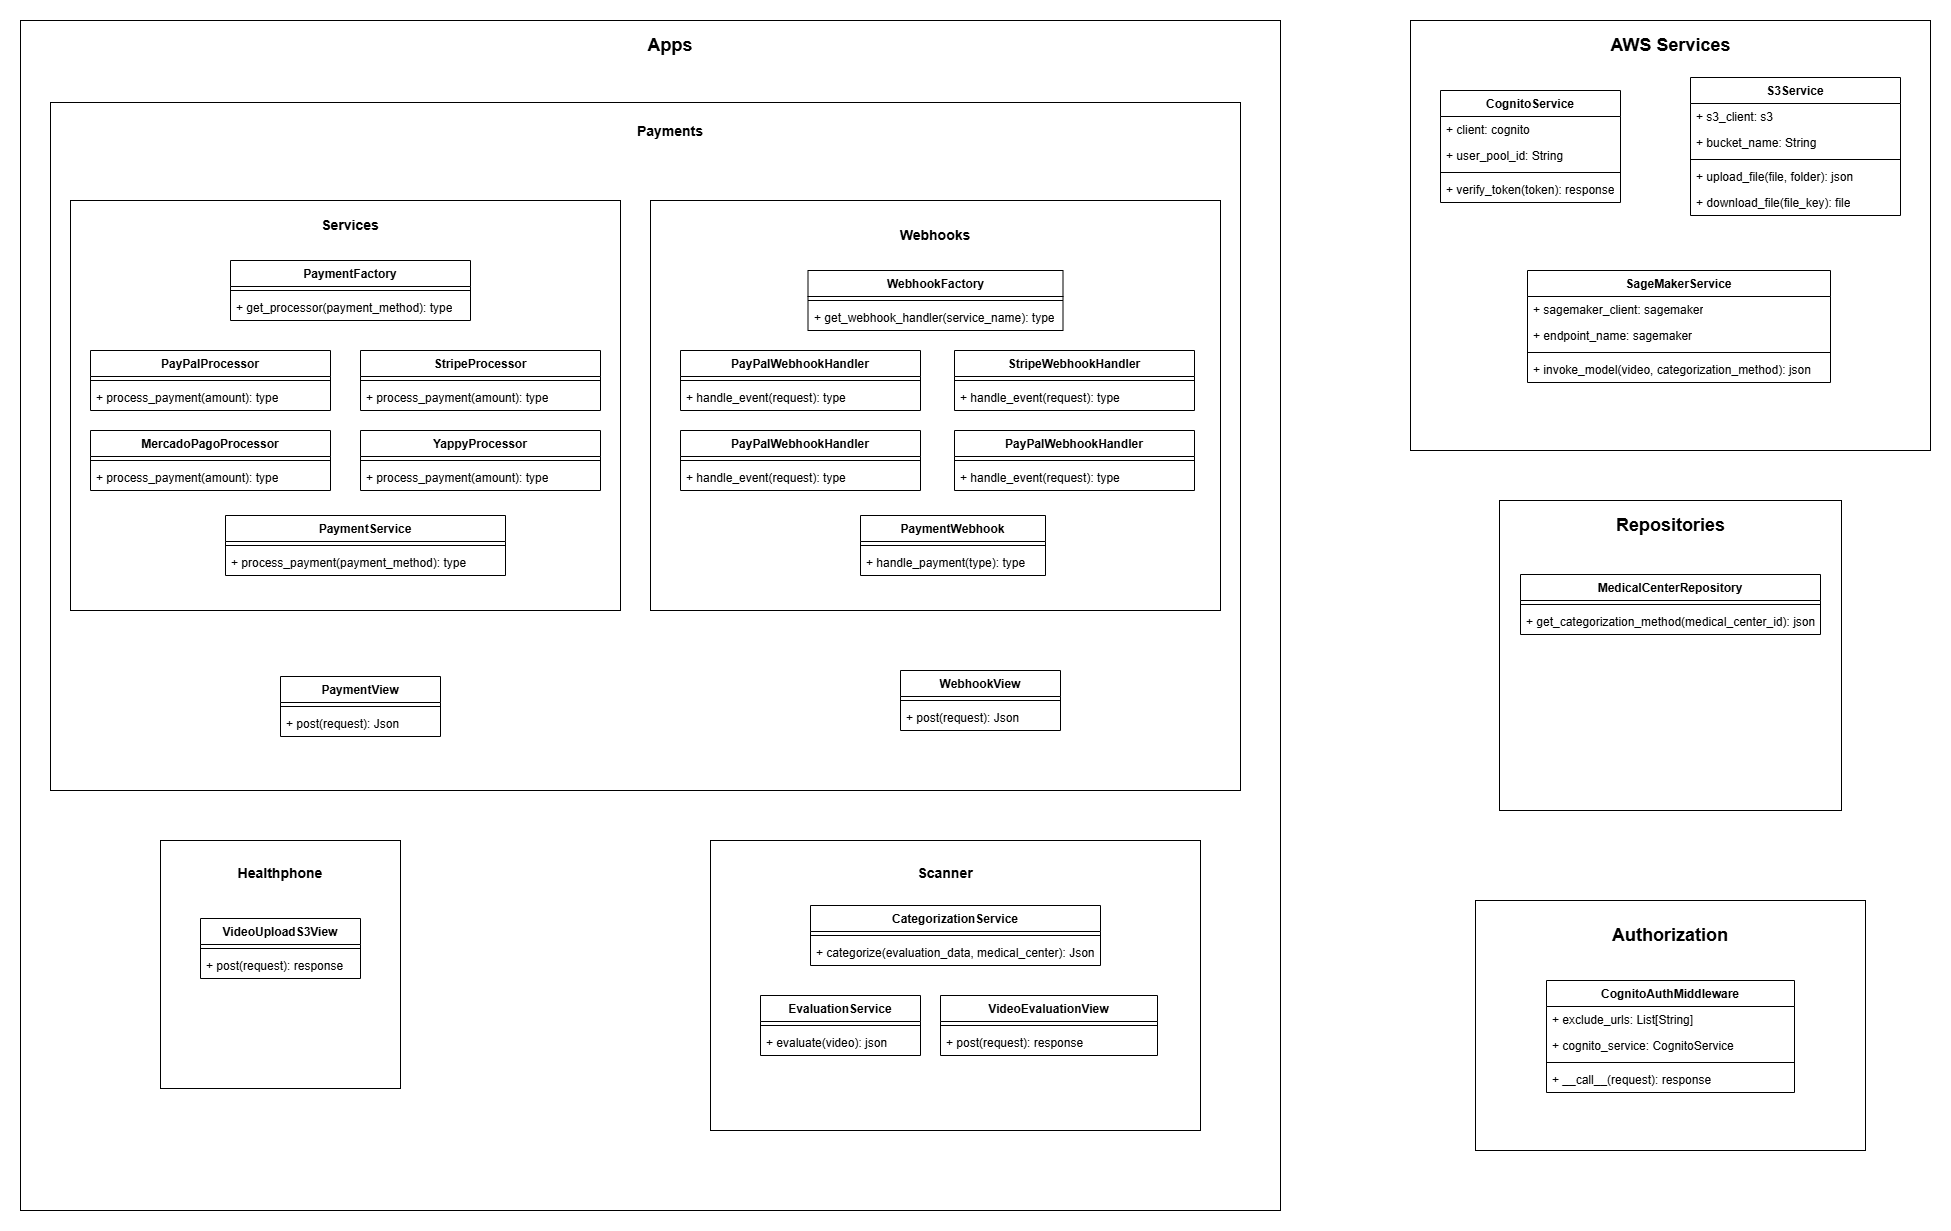
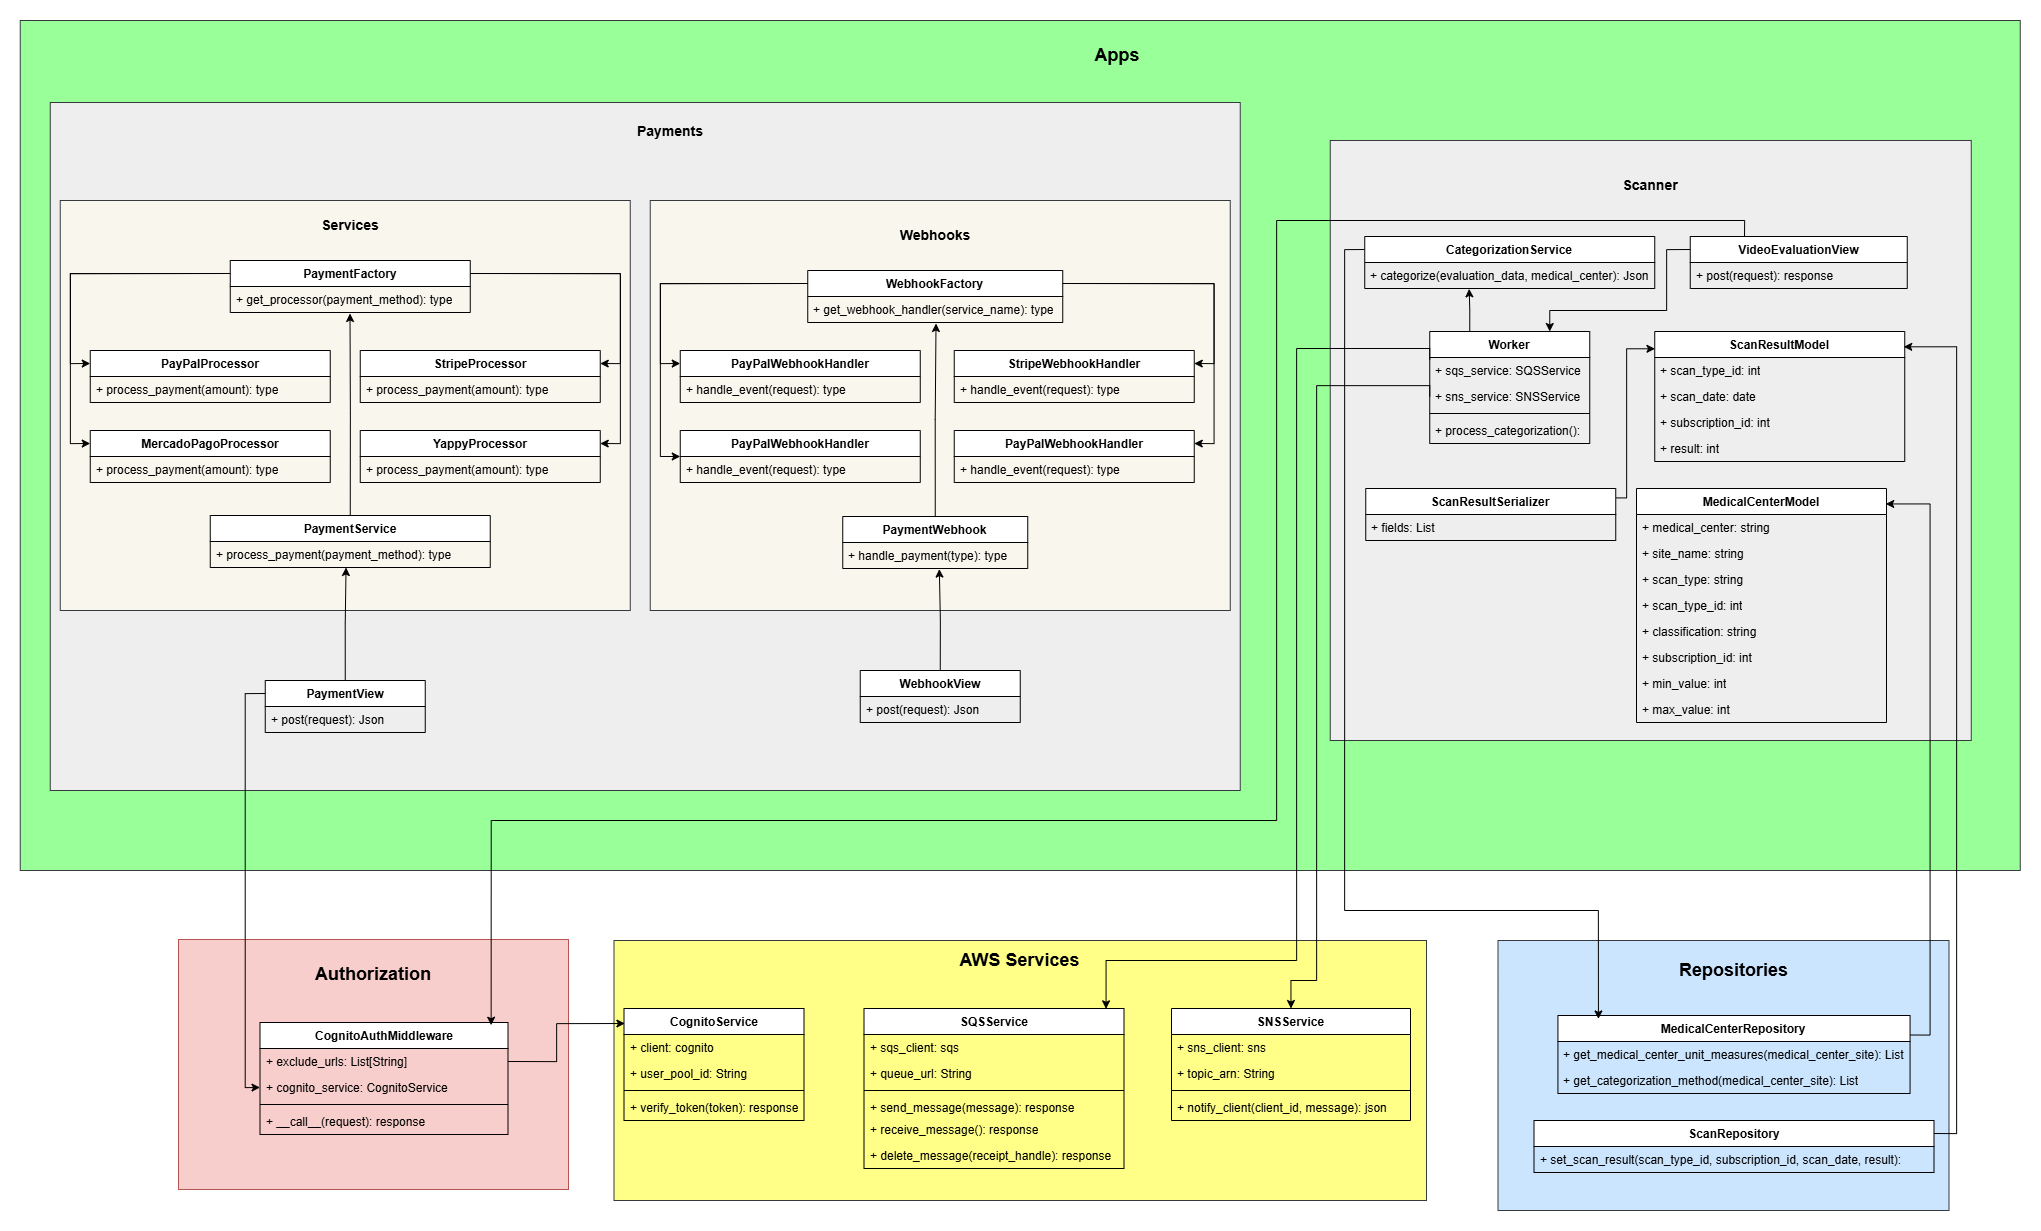
Se modifica la estructura del boilerplate, ahora el view scan recibe el resultado desde sagemajer y se agregan los modelos de la base

diff --git a/healthphone/repositories/medical_center_repository.py b/healthphone/repositories/medical_center_repository.py
@@ -1,34 +1,12 @@
 from apps.scanner.models import MedicalCenterModel
 
-class MedicalCenterRepository:
-    @staticmethod
-    def get_medical_center_unit_measures(medical_center_site, organization):
-        # Recupera el centro médico y devuelve el método de categorización
-        
-        categorization_data = MedicalCenterModel.objects.get(org = organization, 
-                                                                 site = medical_center_site)
-        
-        result = []
-        founds = []
-      
-        for scan in categorization_data: # Se recorren los parametros de la categorización del centro medico
-            
-            if not scan.measure in founds: # Ya se almacenó el measur
-                
-                result.append({"measure":  scan.measure, "measure_unit": scan.measure_unit})
-                founds.append(scan.masure)
-
-                
-        return result
-        
+class MedicalCenterRepository:     
     
-
     @staticmethod
     def get_categorization_method(medical_center_site, organization):
         
         categorization_data = MedicalCenterModel.objects.get(org = organization, 
                                                                  site = medical_center_site)
-        
         result = []
         found = []
         
@@ -37,11 +15,11 @@ class MedicalCenterRepository:
             if not scan.measure in found: # Ya se almacenó el measur
                 # se agrega el measure con unidad de medida y parametro base a tomar en cuenta para categorizar (azul, verde...)
                 result.append({"medical_center": scan.medical_center, "measure_id": scan.measure_id, 
-                    "measure": scan.measure, "subscription_id": scan.subscription_id, 
-                    "params": [{"param": scan.param, "min_value":  scan.min_value, "max_value": scan.max_value}]})
+                    "measure": scan.measure, "measure_unit": scan.measure_unit, 
+                    "subscription_id": scan.subscription_id, "params": 
+                    [{"param": scan.param, "min_value":  scan.min_value, "max_value": scan.max_value}]})
                 found.append(scan.measure)
 
-        
             else:
                 # Se agrega el parametro base a tomar en cuenta para categorizar (azul, verde...) 
                 result[-1]["params"].append({"param": scan.param, "min_value": scan.min_value, "max_value": scan.max_value})

diff --git a/healthphone/apps/scanner/views.py b/healthphone/apps/scanner/views.py
@@ -2,43 +2,26 @@ import boto3
 import os
 from django.http import JsonResponse
 from rest_framework.views import APIView
-from rest_framework.response import Response
-from rest_framework import status
 from django.conf import settings
 import tempfile
 from aws_services.sqs_service import  SQSService
-from aws_services.s3_service import  S3Service
-from .services.categorization_service import CategorizationService
-from .services.evaluation_service import  EvaluationService
-
+from .categorization_service import CategorizationService
 
 class VideoEvaluationView(APIView):
     def post(self, request):
 
-        # Recibir el key (nombre del archivo) del video a procesar desde Lambda
-
-        #video_key = request.data.get('key')
-        
-        #s3Service =  S3Service()
-           
-        # Descargar el video desde S3 y los datos de cual centro medico lo subió
-        
-        #video = s3Service.download_video("key_video")
-        #medical_center = s3Service.download_medical_center_data("key_video")
-     
-        """
-    
         client_id = request.data.get('client_id')  # Id del cliente al que se notifica por SNS
+        scan_result = request.data.get('scan_result')  # Id del cliente al que se notifica por SNS
+        medical_center = request.data.get('medical_center')  # Id del cliente al que se notifica por SNS
 
-        # Enviar el video a la cola SQS
-        sqs_service = SQSService()
+        # Enviar el resultado del scaneo a la cola de sqs
+        """sqs_service = SQSService()
         message = {
-            'video': video,
+            'scan_result': scan_result,
             'medical_center': medical_center,
             'client_id': client_id
         }
-        sqs_service.send_message_to_queue(message)
-        """
+        sqs_service.send_message(message)"""
 
         return JsonResponse({'status': 'Evaluación en proceso, se notificará cuando esté lista.'})
 

diff --git a/healthphone/apps/scanner/worker.py b/healthphone/apps/scanner/worker.py
@@ -2,29 +2,25 @@ import boto3
 from aws_services.sagemaker_service import SageMakerService
 from aws_services.sqs_service import SQSService
 from aws_services.sns_service import SNSService
-from .services.categorization_service import CategorizationService
+from .categorization_service import CategorizationService
 
 class Worker:
     def __init__(self):
         self.sqs_service = SQSService()
         self.sns_service = SNSService()
 
-    def process_scan(self):
+    def process_categorization(self):
         # Proceso que se queda escuchando la cola SQS
         while True:
             message = self.sqs_service.receive_message()
             
             if message:
-                video = message['Video']
+                scan_result = message['scan_result']
                 medical_center = message['medical_center']
-                
-                # Llamar a SageMaker para evaluar el video
-                sagemaker_service = SageMakerService()
-                evaluation_result = sagemaker_service.invoke_model(video)
-                
+    
                 # Categorización basada en los resultados de SageMaker
                 categorization_service = CategorizationService()
-                categorization_result = categorization_service.categorize(evaluation_result, medical_center)
+                categorization_result = categorization_service.categorize(scan_result, medical_center)
                 
                 # Notificar al cliente con SNS
                 self.sns_service.notify_client(categorization_result)

diff --git a/healthphone/apps/scanner/categorization_service.py b/healthphone/apps/scanner/categorization_service.py
@@ -1,0 +1,24 @@
+from repositories.medical_center_repository import MedicalCenterRepository
+
+class CategorizationService:
+  
+    def categorize(self, evaluation_data, medical_center):
+       
+        # Obtener el método de categorización del centro médico
+        #categorization_method = MedicalCenterRepository.get_categorization_method(medical_center)
+        categorization_method = []
+        # Proceso de categorización con el método adecuado
+        
+        for measure in categorization_method:
+      
+           """Se recorren los diferentes measures del centro medico con sus respectivos valores min y max
+            y se categoriza.
+            Además se realizan las conversiones de las unidades de los measures dependiendo de cada 
+            centro médico (pulgadas, centimetros...)"""
+           
+           break
+
+        result = ""
+        
+        return {"status": "Categorización completada", "result": result}
+        

diff --git a/healthphone/apps/scanner/serializers.py b/healthphone/apps/scanner/serializers.py
@@ -1,0 +1,7 @@
+from rest_framework import serializers
+from .models import ScanResultModel
+
+class ScanResultSerializer(serializers.ModelSerializer):
+    class Meta:
+        model = ScanResultModel
+        fields = ['scan_date', 'result']  # Campos a incluir en el JSON

diff --git a/healthphone/config/settings.py b/healthphone/config/settings.py
@@ -36,7 +36,6 @@ INSTALLED_APPS = [
     'django.contrib.sessions',
     'django.contrib.messages',
     'django.contrib.staticfiles',
-    'apps.healthphone',
     'apps.scanner',
     'apps.payments',
     'rest_framework',
